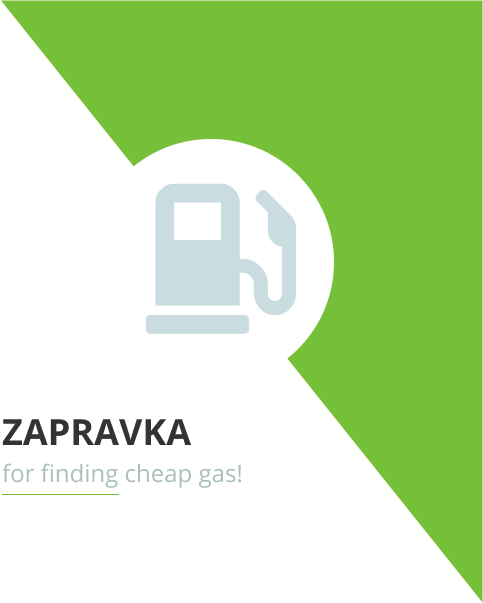
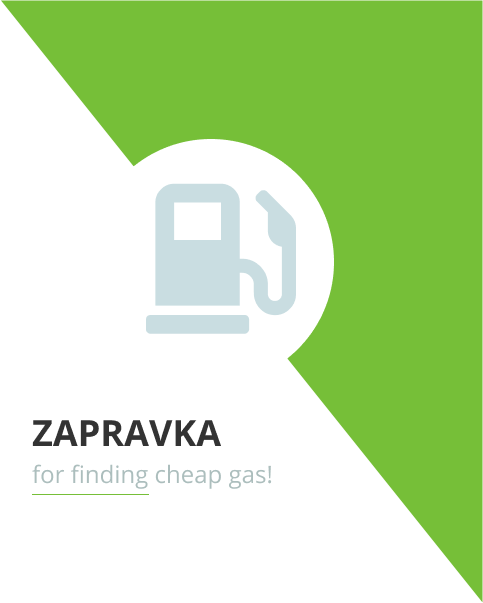
registration style added

Changed region(s): [[0.0, 0.6866, 0.4658, 0.7463], [0.0, 0.7761, 0.559, 0.8358]]

diff --git a/front/zapravka/src/pages/Register/Register.js b/front/zapravka/src/pages/Register/Register.js
@@ -58,7 +58,7 @@ class Register extends Component {
       <div className="containerRegister">
         <div className="column-A">
           <span className="titleRegister">Zapravka</span>
-          <h6>Sign up</h6>
+          <h6>Getting started</h6>
           <form className="forma" onSubmit={this.handleSubmit}>
             <div className="inputs">
               <input
@@ -66,44 +66,41 @@ class Register extends Component {
                 name="username"
                 type="text"
                 placeholder="Username"
+                autocomplete="off"
                 value={this.state.username}
                 onChange={this.handleChange}
+                required
               />
               <input
                 name="email"
                 className="email"
                 type="text"
                 placeholder="Email"
+                autocomplete="off"
                 value={this.state.email}
                 onChange={this.handleChange}
+                required
               />
               <input
                 name="password"
                 className="password"
                 type="password"
                 placeholder="Password"
+                autocomplete="off"
                 value={this.state.password}
                 onChange={this.handleChange}
+                required
               />
-              <input
-                name="confirm_password"
-                className="confirmPassword"
-                type="password"
-                placeholder="Confirm password"
-                value={this.state.confirm_password}
-                onChange={this.handleChange}
-              />
-              <h2>{this.state.error}</h2>
+              <h6>{this.state.error}</h6>
             </div>
 
             <h6>By clicking SIGNUP button you accept Terms and Conditions</h6>
-            <button>SIGN UP</button>
+            <button className='signUpBtn'>SIGN UP</button>
           </form>
-          <h6>Already have an account? SIGNIN to your ZAPRAVKA account.</h6>
+          <h6>Already have an account?</h6>
+          <h6 style={{'color': '#00a2a2'}}>SIGNIN to your ZAPRAVKA account.</h6>
         </div>
         <div className="column-B-reg">
-          <h1>ZAPRAVKA</h1>
-          <h6>for finding cheap gas!</h6>
         </div>
       </div>
     );

diff --git a/front/zapravka/src/pages/Register/Register.css b/front/zapravka/src/pages/Register/Register.css
@@ -1,6 +1,7 @@
-/* .containerRegister{
+.containerRegister{
     margin: 0 auto;
-    width: 960px;
+    width: 860px;
+    margin-top: 50px;
     display: grid;
     grid-template-columns: 50% 50%;
     margin-bottom: 50px;
@@ -8,24 +9,37 @@
  
  .column-A{
     text-align: center;
-    margin-top: 86px;
-   margin-bottom: 250px;
-
+    margin-top: 50px;
  }
  
  .inputs input{
-    display:  block;
-    margin: 0 auto;
+   margin: 10px 0;
+   box-shadow: none;
  }
- h6{
-    margin: 10px;
+ input:focus{
+  outline-width: 0;
  }
  
  .column-B-reg{
     background-image: url('../../assets/Register.png');
     background-size: cover;
+    /* background-position: right; */
  }
  
  .titleRegister{
-    font-size: 64px;
- } */
+    font-size: 56px;
+    color: #76BF38;
+ }
+
+ .signUpBtn{
+   margin: 5px;
+   background-color:  #76BF38;
+   color: white;
+   padding: 10px 0;
+   border: 0;
+   border-radius: 5px;
+   width:100%;
+ }
+ .forma{
+   margin-bottom: 20px;
+ }
